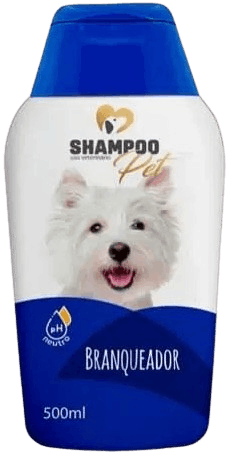
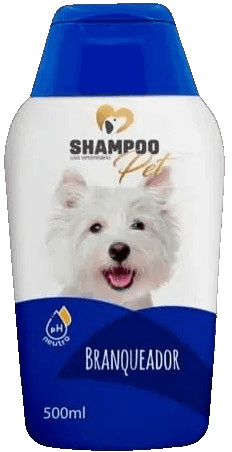
ajuste

diff --git a/site meu pet/produtos.html b/site meu pet/produtos.html
@@ -6,9 +6,29 @@
     <meta http-equiv="X-UA-Compatible" content="IE=edge">
     <meta name="viewport" content="width=device-width, initial-scale=1.0">
     <title>Produtos - Meu Pet</title>
+
+    <style>
+        body{
+            font-family: Verdana;
+            font-size:16px;
+        }
+
+    .produto{
+        width:180px;
+        transition: transform 0.3s;
+        cursor:pointer;
+    }
+
+    .produto:hover{
+        transform: scale(1.3);
+    }
+        .titulo{
+            text-align:center;
+        }
+    </style>
 </head>
 
-<body style="font-family: Verdana; font-size:16px;">
+<body>
 
     <table align="center" width="1000">
 
@@ -36,48 +56,58 @@
         <tr>
             <td>
 
-                <h2 align="center">Nossos Produtos</h2>
+                <h2 class="titulo">Nossos Produtos</h2>
 
                 <table align="center" cellpadding="20">
 
                     <tr align="center">
+
                         <td>
-                            <img src="produto1.png" width="180" height="180"><br><br>
+                            <img src="produto1.png" class="produto">
+                            <br><br>
                             <b>Ração Premium</b><br>
                             R$ 89,90
                         </td>
 
                         <td>
-                            <img src="produto2.png" width="180" height="180"><br><br>
+                            <img src="produto2.png" class="produto">
+                            <br><br>
                             <b>Coleira</b><br>
                             R$ 39,90
                         </td>
 
                         <td>
-                            <img src="produto3.png" width="180" height="180"><br><br>
+                            <img src="produto3.png" class="produto">
+                            <br><br>
                             <b>Brinquedo</b><br>
                             R$ 24,90
                         </td>
+
                     </tr>
 
                     <tr align="center">
+
                         <td>
-                            <img src="produto4.png" width="180" height="180"><br><br>
+                            <img src="produto4.png" class="produto">
+                            <br><br>
                             <b>Caminha</b><br>
                             R$ 149,90
                         </td>
 
                         <td>
-                            <img src="produto5.png" width="180" height="180"><br><br>
+                            <img src="produto5.png" class="produto">
+                            <br><br>
                             <b>Pote de Água</b><br>
                             R$ 29,90
                         </td>
 
                         <td>
-                            <img src="produto6.png" width="180" height="180"><br><br>
+                            <img src="produto6.png" class="produto">
+                            <br><br>
                             <b>Shampoo Pet</b><br>
                             R$ 34,90
                         </td>
+
                     </tr>
 
                 </table>